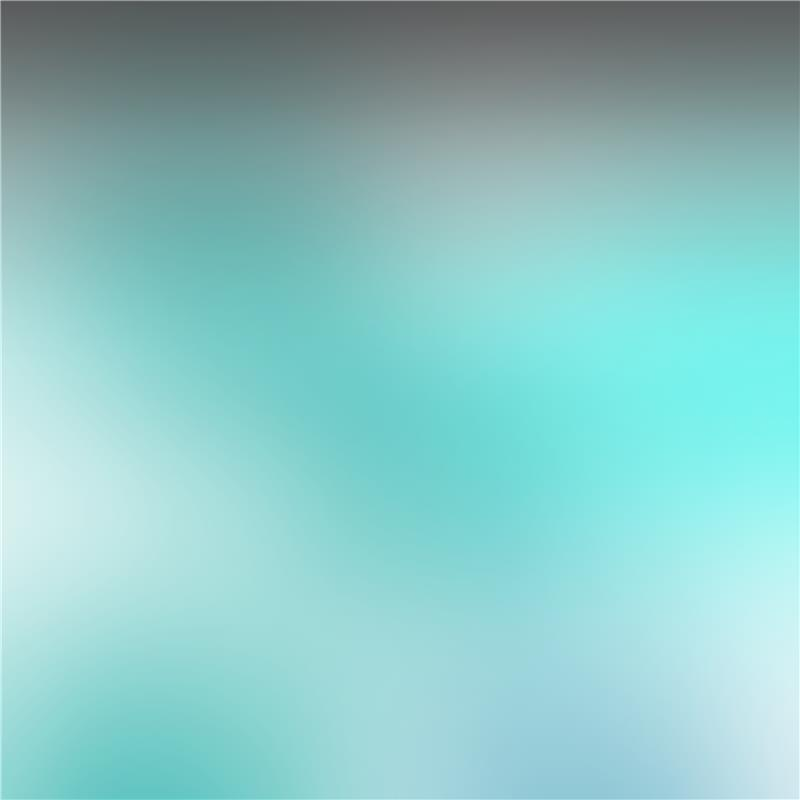
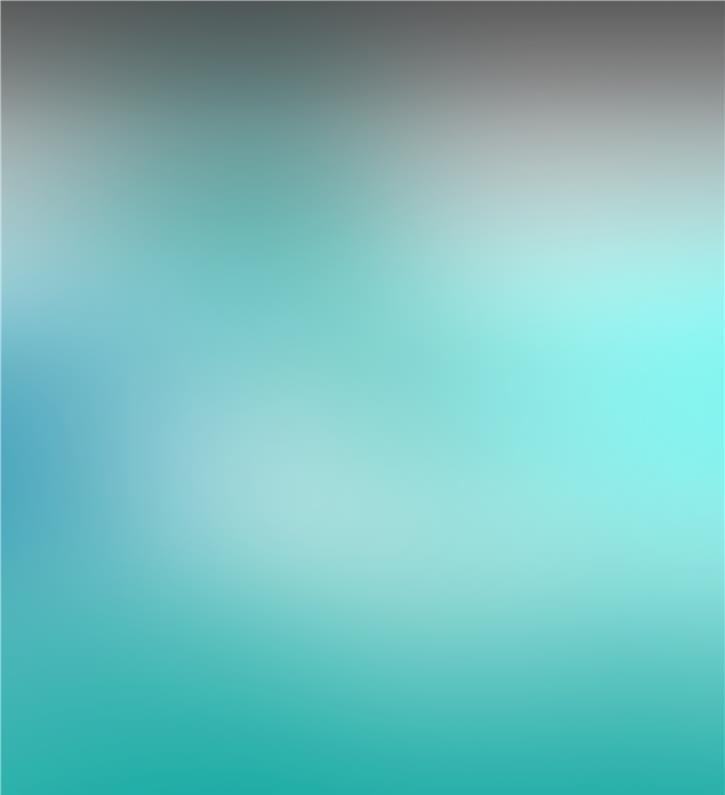
stats section and pillars section bg updated

diff --git a/src/components/PillarsSection.tsx b/src/components/PillarsSection.tsx
@@ -95,7 +95,7 @@ export default function PillarsSection() {
     <motion.section
       ref={containerRef}
       // style={{ opacity, scale }} // **FADE ANIMATION APPLIED HERE**
-      className="relative py-24 bg-gradient-to-b from-[#c2e9f7] via-gray-50 to-white overflow-hidden"
+      className="relative py-24 bg-gradient-to-b from-[#28B0A9] via-gray-50 to-white overflow-hidden"
     >
       {/* Background Pattern */}
       <div className="absolute inset-0 opacity-5">
@@ -103,7 +103,7 @@ export default function PillarsSection() {
           className="absolute inset-0"
           style={{
             backgroundImage: `linear-gradient(45deg, #00a19a 1px, transparent 1px),
-                           linear-gradient(-45deg, #00c9bf 1px, transparent 1px)`,
+                           linear-gradient(-45deg,  #00c9bf 1px, transparent 1px)`,
             backgroundSize: '60px 60px',
           }}
         ></div>
@@ -117,7 +117,7 @@ export default function PillarsSection() {
           transition={{ duration: 1.5, ease: [0.23, 1, 0.32, 1] }}
           className="text-start mb-20 w-full max-w-4xl mx-auto"
         >
-          <h2 className="text-3xl sm:text-4xl lg:text-5xl font-bold mb-8 tracking-tight leading-tight bg-gradient-to-r from-[#00a19a] via-[#00c4b8] to-[#00e6d6] bg-clip-text text-transparent">
+          <h2 className="text-3xl sm:text-4xl lg:text-5xl font-bold mb-8 tracking-tight leading-tight bg-gradient-to-r from-[#000000] via-[#68f1ebff] to-[#ffffff] bg-clip-text text-transparent">
             OUR PILLARS
           </h2>
 
